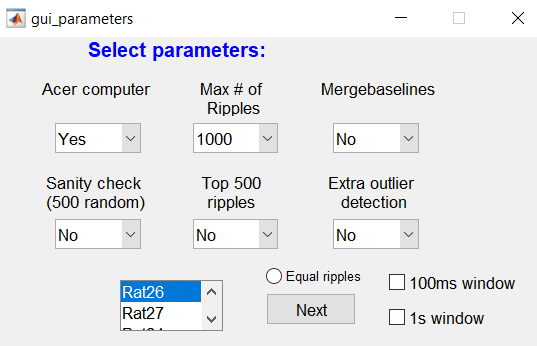
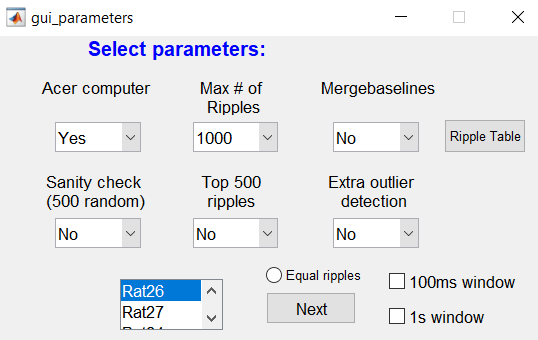
gui_rippletable

diff --git a/Figures/Figure3/gui_parameters.m b/Figures/Figure3/gui_parameters.m
@@ -22,7 +22,7 @@ function varargout = gui_parameters(varargin)
 
 % Edit the above text to modify the response to help gui_parameters
 
-% Last Modified by GUIDE v2.5 05-Mar-2019 03:20:28
+% Last Modified by GUIDE v2.5 13-Mar-2019 02:57:28
 
 % Begin initialization code - DO NOT EDIT
 gui_Singleton = 1;
@@ -385,3 +385,12 @@ assignin('base', 'equal_num', equal_num)
 
 
 % Hint: get(hObject,'Value') returns toggle state of radiobutton4
+
+
+% --- Executes on button press in pushbutton3.
+function pushbutton3_Callback(hObject, eventdata, handles)
+% hObject    handle to pushbutton3 (see GCBO)
+% eventdata  reserved - to be defined in a future version of MATLAB
+% handles    structure with handles and user data (see GUIDATA)
+rippletable=hObject.Value;
+assignin('base', 'rippletable', rippletable)
